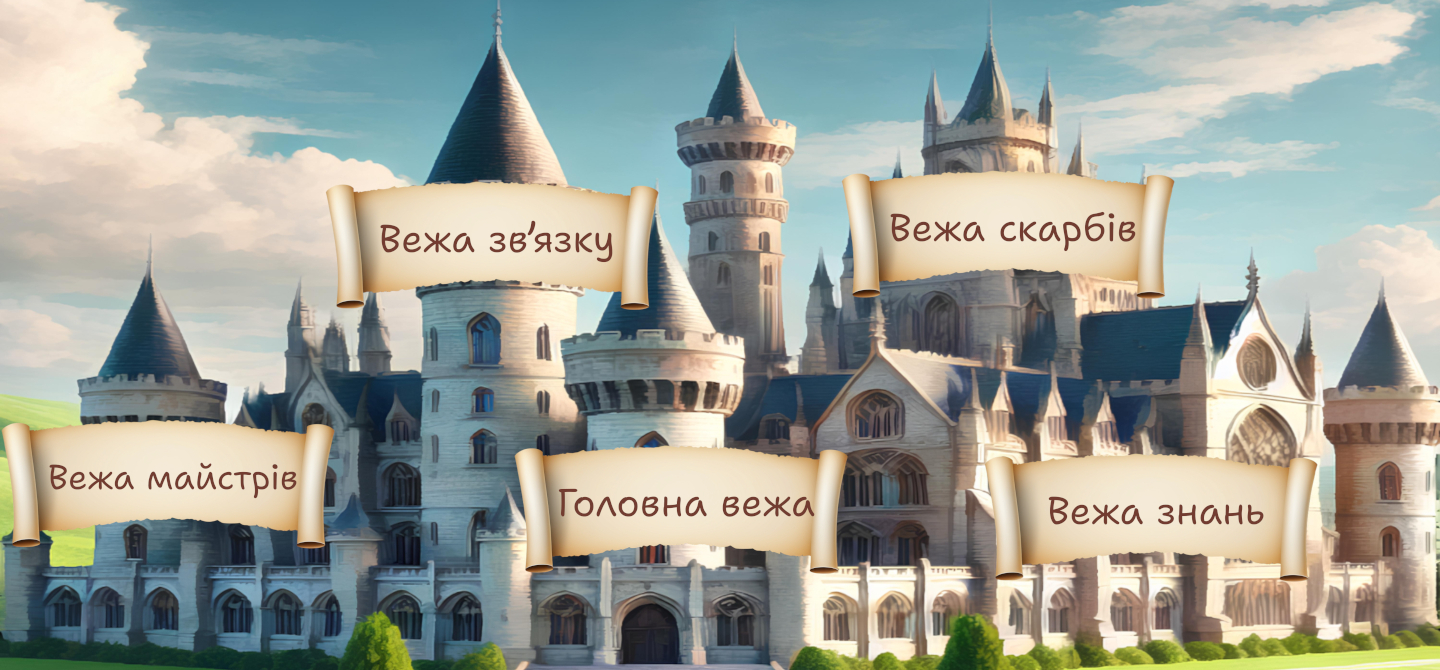
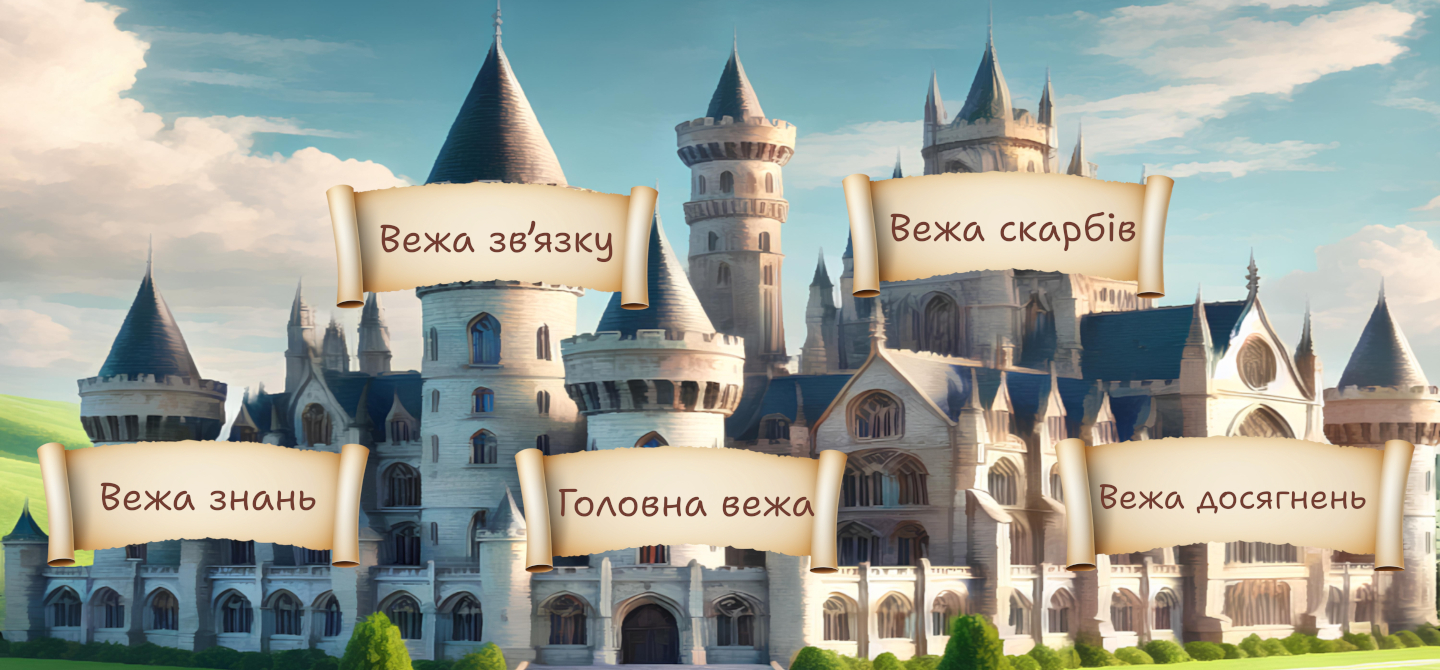
add pages, update Header and Hero section

Changed region(s): [[0.6875, 0.6269, 1.0, 0.8657], [0.0, 0.6269, 0.2812, 0.8657]]

diff --git a/src/components/Header/Header.tsx b/src/components/Header/Header.tsx
@@ -63,7 +63,7 @@ const Header = () => {
           <li className={css.navItem}>
             <div className={css.dropdown}>
               <Link
-                href="/book-lesson"
+                href="/lessons"
                 className={css.navLink}
                 onClick={() => toggleDropdown("lessons")}
               >
@@ -75,22 +75,27 @@ const Header = () => {
                 }`}
               >
                 <li>
-                  <Link href="/book-lesson" className={css.dropdownLink}>
+                  <Link href="/lessons" className={css.dropdownLink}>
                     .....
                   </Link>
                 </li>
                 <li>
-                  <Link href="/book-lesson" className={css.dropdownLink}>
+                  <Link href="/lessons" className={css.dropdownLink}>
                     .....
                   </Link>
                 </li>
                 <li>
-                  <Link href="/book-lesson" className={css.dropdownLink}>
+                  <Link href="/lessons" className={css.dropdownLink}>
                     .....
                   </Link>
                 </li>
               </ul>
             </div>
+          </li>
+          <li className={css.navItem}>
+            <Link href="/testimonials" className={css.navLink} onClick={closeMenu}>
+              Відгуки
+            </Link>
           </li>
           <li className={css.navItem}>
             <Link href="/contacts" className={css.navLink} onClick={closeMenu}>

diff --git a/src/components/Hero/Hero.tsx b/src/components/Hero/Hero.tsx
@@ -13,17 +13,31 @@ const Hero = () => {
       shape: "rect" as const,
     },
     {
-      coords: "1350,900,1750,700",
-      href: "/book-lesson",
+      coords: "100,900,500,700",
+      href: "/lessons",
       title: "Вежа знань",
       alt: "Вежа знань",
       shape: "rect" as const,
     },
     {
-      coords: "450,500,850,300",
+      coords: "1350,900,1750,700",
+      href: "/testimonials",
+      title: "Вежа досягнень",
+      alt: "Вежа досягнень",
+      shape: "rect" as const,
+    },
+    {
+      coords: "450,450,850,250",
       href: "/contacts",
       title: "Вежа зв'язку",
       alt: "Вежа зв'язку",
+      shape: "rect" as const,
+    },
+    {
+      coords: "1150,450,1550,250",
+      href: "/resources",
+      title: "Вежа скарбів",
+      alt: "Вежа скарбів",
       shape: "rect" as const,
     },
   ];

diff --git a/src/app/resources/page.tsx b/src/app/resources/page.tsx
@@ -1,9 +1,9 @@
 import styles from "../page.module.css";
 
-export default function BookLessonPage() {
+export default function ResourcesPage() {
   return (
     <div className={styles.page}>
-        <h1 className={styles.title}>Уроки</h1>
+        <h1 className={styles.title}>Ресурси</h1>
     </div>
   );
 }

diff --git a/src/app/testimonials/page.tsx b/src/app/testimonials/page.tsx
@@ -1,0 +1,9 @@
+import styles from "../page.module.css";
+
+export default function TestimonialsPage() {
+  return (
+    <div className={styles.page}>
+        <h1 className={styles.title}>Відгуки</h1>
+    </div>
+  );
+}

diff --git a/src/app/lessons/page.tsx b/src/app/lessons/page.tsx
@@ -1,0 +1,9 @@
+import styles from "../page.module.css";
+
+export default function LessonsPage() {
+  return (
+    <div className={styles.page}>
+        <h1 className={styles.title}>Уроки</h1>
+    </div>
+  );
+}

diff --git a/src/app/globals.css b/src/app/globals.css
@@ -22,8 +22,8 @@ a {
 }
 
 :root {
-  --header-bg: #f2e8b6;
-  --footer-bg: #f2e8b6;
+  --header-bg: #F4EAD6;
+  --footer-bg: #F4EAD6;
   --main-bg: #ffffff;
 
   --pink-color: #d97e9f;
